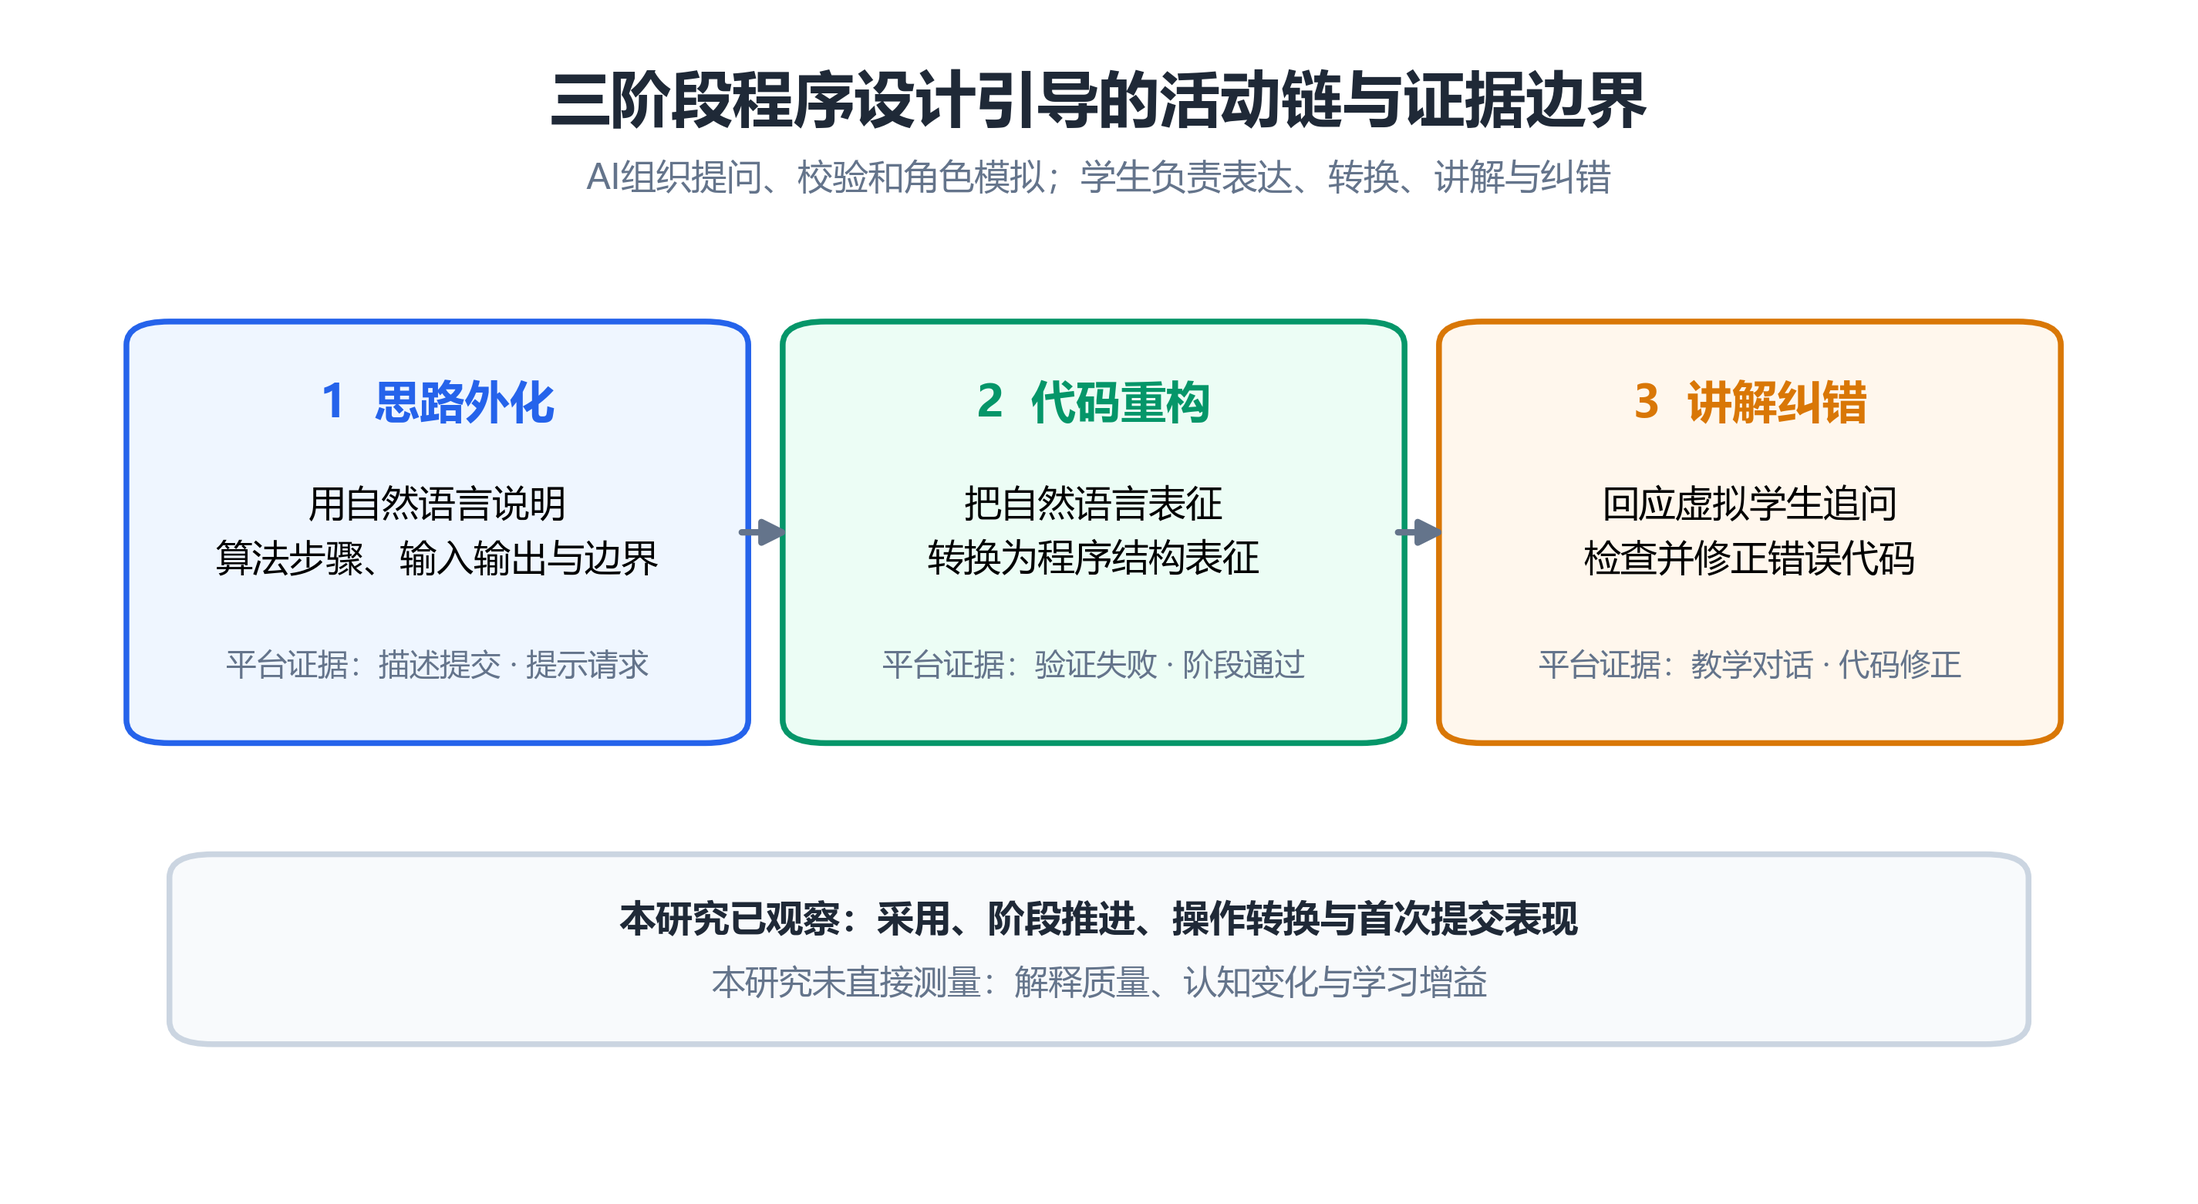
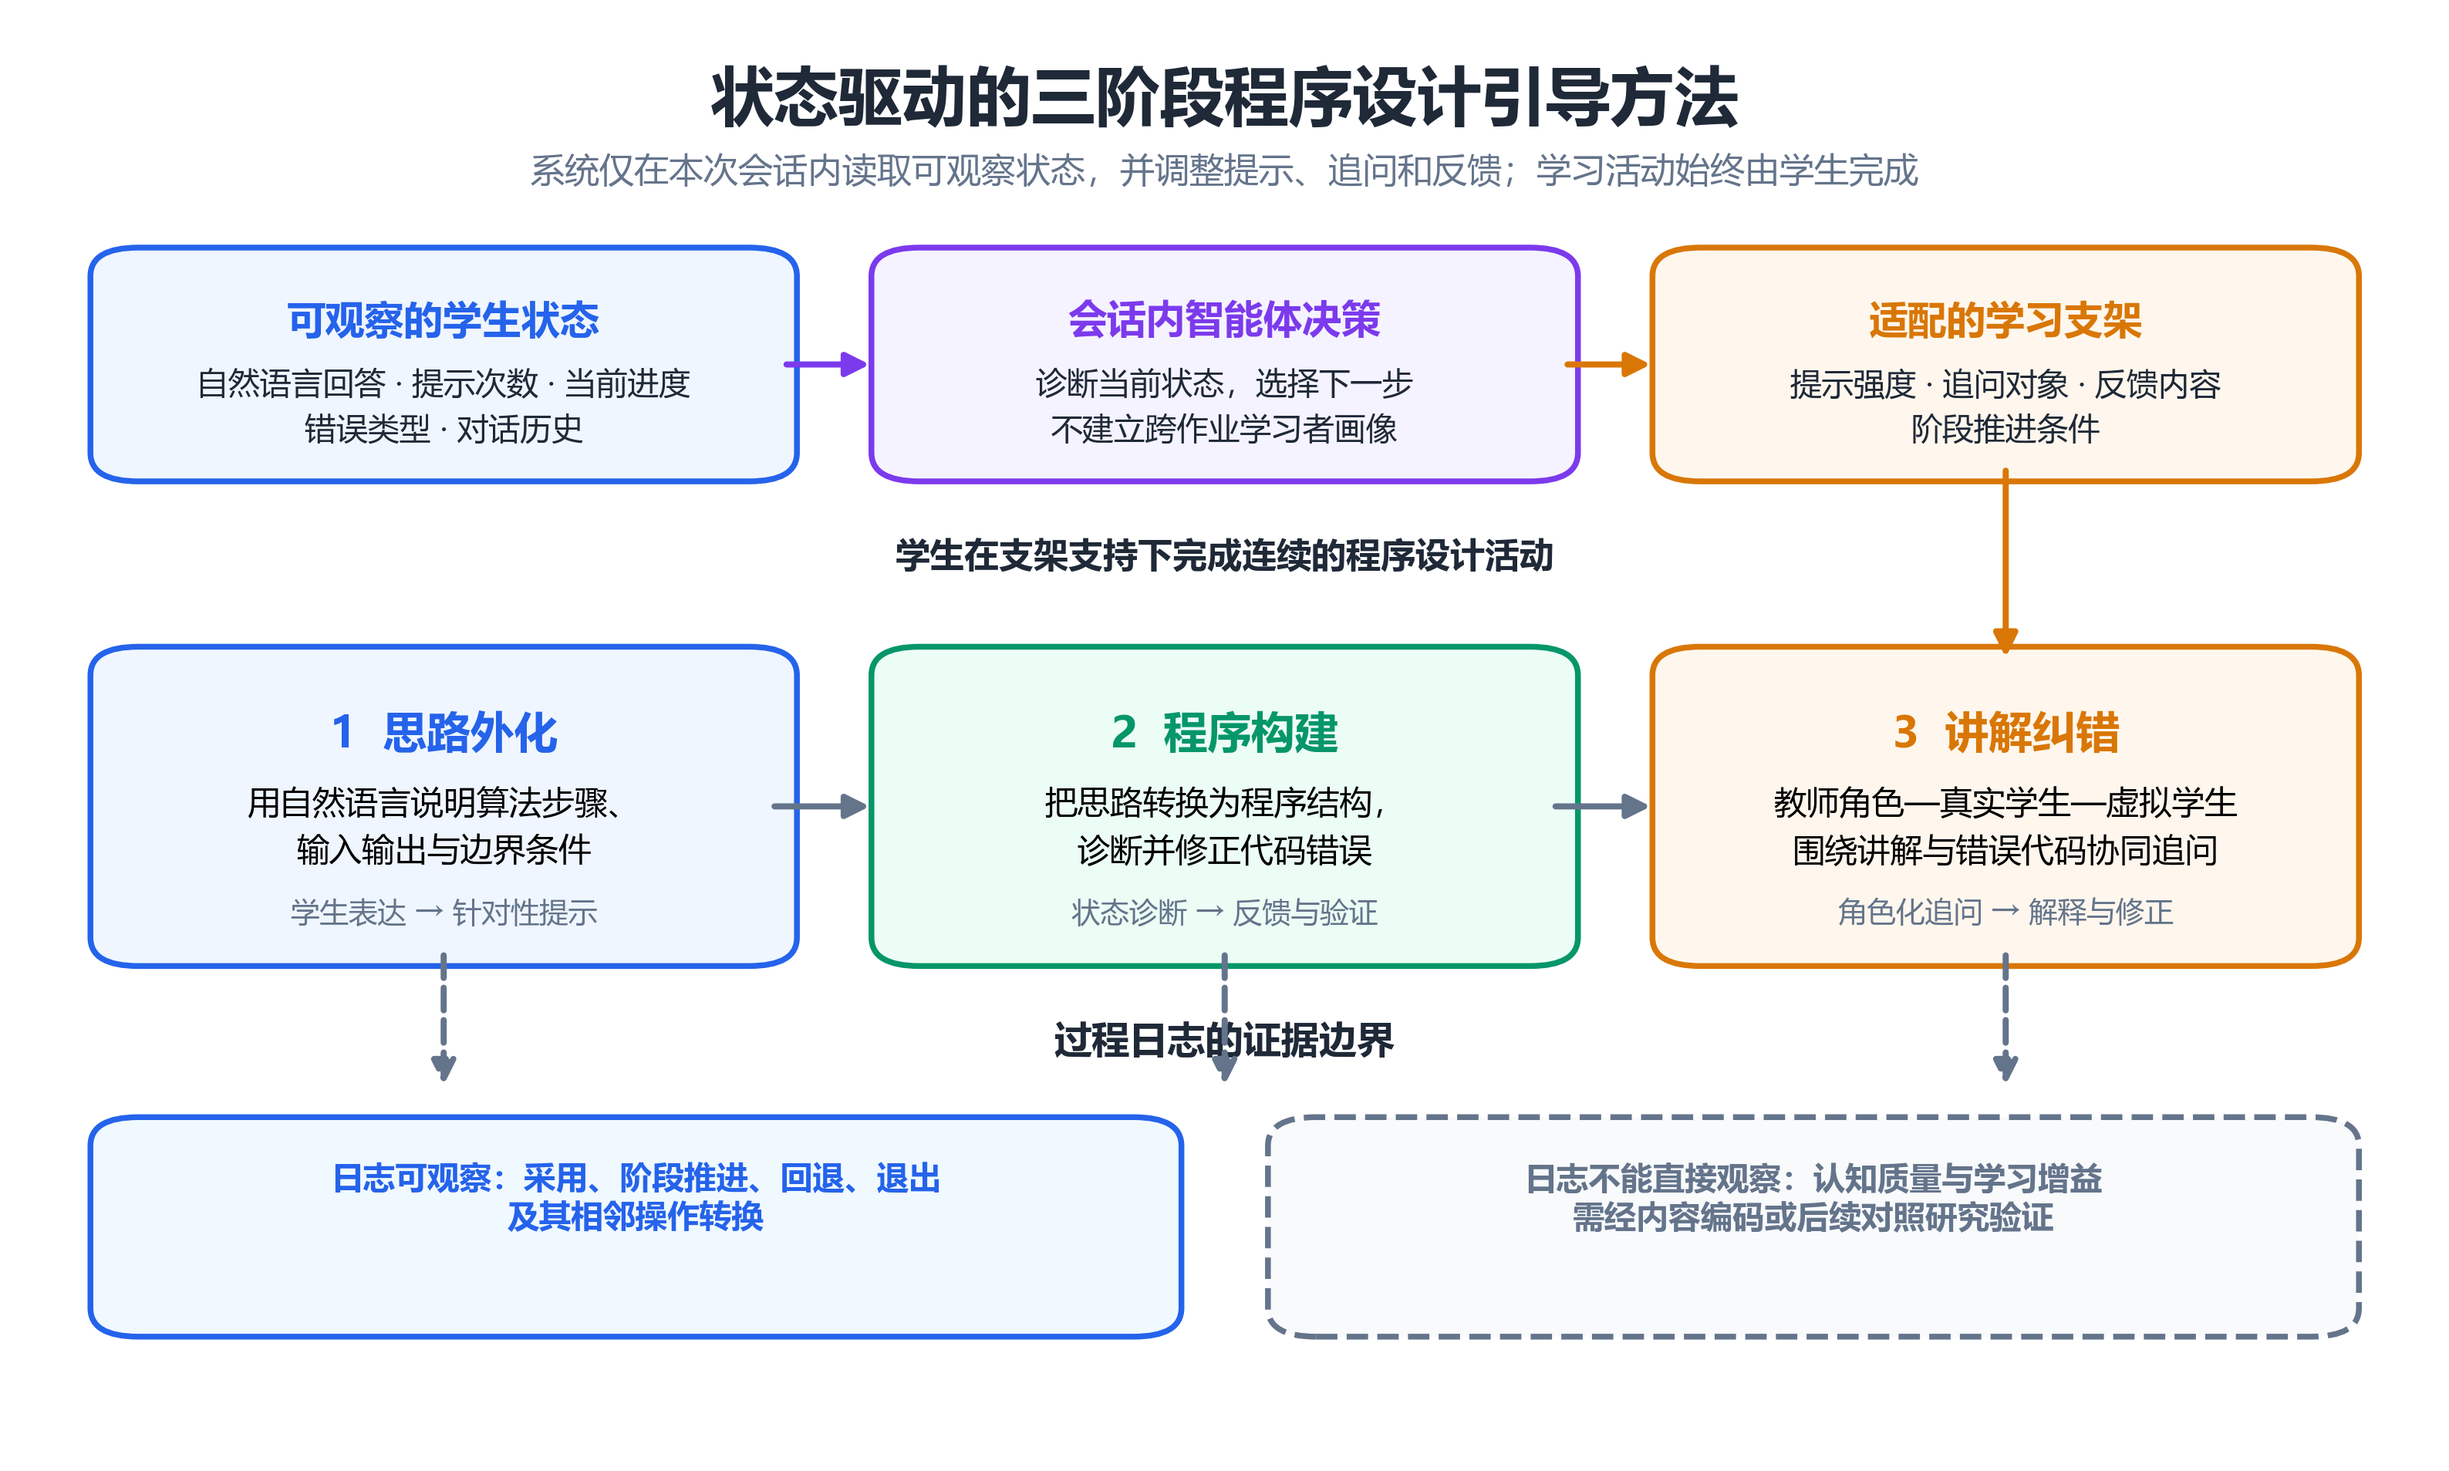
docs: clarify adaptive guided-learning framework

Changed region(s): [[0.0312, 0.0307, 0.9681, 0.9225]]

diff --git a/scripts/plot_guided_learning_paper.py b/scripts/plot_guided_learning_paper.py
@@ -63,12 +63,12 @@ def _save(fig: plt.Figure, path: Path) -> Path:
 
 
 def _plot_activity_chain_evidence(output_dir: Path) -> Path:
-    fig, ax = plt.subplots(figsize=(12, 6.5))
+    fig, ax = plt.subplots(figsize=(13.4, 8.0))
     ax.set_xlim(0, 1)
     ax.set_ylim(0, 1)
     ax.axis("off")
 
-    def box(x, y, width, height, face, edge):
+    def box(x, y, width, height, face, edge, *, linestyle="solid"):
         patch = FancyBboxPatch(
             (x, y),
             width,
@@ -77,119 +77,201 @@ def _plot_activity_chain_evidence(output_dir: Path) -> Path:
             linewidth=1.8,
             edgecolor=edge,
             facecolor=face,
+            linestyle=linestyle,
             transform=ax.transAxes,
         )
         ax.add_patch(patch)
 
+    def arrow(start, end, *, color=COLORS["gray"], linestyle="solid"):
+        ax.annotate(
+            "",
+            xy=end,
+            xytext=start,
+            xycoords=ax.transAxes,
+            arrowprops={
+                "arrowstyle": "-|>",
+                "lw": 1.9,
+                "color": color,
+                "linestyle": linestyle,
+                "mutation_scale": 15,
+            },
+        )
+
     ax.text(
         0.5,
-        0.93,
-        "三阶段程序设计引导的活动链与证据边界",
+        0.945,
+        "状态驱动的三阶段程序设计引导方法",
         ha="center",
         va="center",
-        fontsize=19,
+        fontsize=20,
         fontweight="bold",
         color=COLORS["dark"],
     )
     ax.text(
         0.5,
-        0.865,
-        "AI组织提问、校验和角色模拟；学生负责表达、转换、讲解与纠错",
+        0.895,
+        "系统仅在本次会话内读取可观察状态，并调整提示、追问和反馈；学习活动始终由学生完成",
         ha="center",
         va="center",
-        fontsize=11,
+        fontsize=10.8,
         color=COLORS["gray"],
     )
 
-    stages = [
+    top_boxes = [
         (
-            0.06,
-            "1  思路外化",
-            "用自然语言说明\n算法步骤、输入输出与边界",
-            "描述提交 · 提示请求",
+            0.04,
+            "可观察的学生状态",
+            "自然语言回答 · 提示次数 · 当前进度\n错误类型 · 对话历史",
             "#EFF6FF",
             COLORS["blue"],
         ),
         (
             0.365,
-            "2  代码重构",
-            "把自然语言表征\n转换为程序结构表征",
-            "验证失败 · 阶段通过",
-            "#ECFDF5",
-            COLORS["green"],
+            "会话内智能体决策",
+            "诊断当前状态，选择下一步\n不建立跨作业学习者画像",
+            "#F5F3FF",
+            COLORS["purple"],
         ),
         (
-            0.67,
-            "3  讲解纠错",
-            "回应虚拟学生追问\n检查并修正错误代码",
-            "教学对话 · 代码修正",
+            0.69,
+            "适配的学习支架",
+            "提示强度 · 追问对象 · 反馈内容\n阶段推进条件",
             "#FFF7ED",
             COLORS["orange"],
         ),
     ]
-    for x, title, activity, evidence, face, edge in stages:
-        box(x, 0.39, 0.265, 0.34, face, edge)
+    for x, title, detail, face, edge in top_boxes:
+        box(x, 0.69, 0.27, 0.14, face, edge)
         ax.text(
-            x + 0.1325,
-            0.67,
+            x + 0.135,
+            0.79,
             title,
             ha="center",
             va="center",
-            fontsize=14,
+            fontsize=12.2,
             fontweight="bold",
             color=edge,
         )
         ax.text(
-            x + 0.1325,
-            0.56,
-            activity,
+            x + 0.135,
+            0.73,
+            detail,
             ha="center",
             va="center",
-            fontsize=11.5,
-            linespacing=1.5,
-        )
-        ax.text(
-            x + 0.1325,
-            0.445,
-            f"平台证据：{evidence}",
-            ha="center",
-            va="center",
-            fontsize=9.5,
-            color=COLORS["gray"],
+            fontsize=9.8,
+            linespacing=1.45,
+            color=COLORS["dark"],
         )
 
-    for start, end in ((0.325, 0.365), (0.63, 0.67)):
-        ax.annotate(
-            "",
-            xy=(end - 0.006, 0.56),
-            xytext=(start + 0.006, 0.56),
-            xycoords=ax.transAxes,
-            arrowprops={
-                "arrowstyle": "-|>",
-                "lw": 2,
-                "color": COLORS["gray"],
-                "mutation_scale": 16,
-            },
-        )
+    arrow((0.315, 0.76), (0.355, 0.76), color=COLORS["purple"])
+    arrow((0.64, 0.76), (0.68, 0.76), color=COLORS["orange"])
 
-    box(0.08, 0.13, 0.84, 0.14, COLORS["light"], "#CBD5E1")
     ax.text(
         0.5,
-        0.225,
-        "本研究已观察：采用、阶段推进、操作转换与首次提交表现",
+        0.625,
+        "学生在支架支持下完成连续的程序设计活动",
         ha="center",
         va="center",
-        fontsize=11.5,
+        fontsize=10.8,
         fontweight="bold",
         color=COLORS["dark"],
     )
+
+    stages = [
+        (
+            0.04,
+            "1  思路外化",
+            "用自然语言说明算法步骤、\n输入输出与边界条件",
+            "学生表达 → 针对性提示",
+            "#EFF6FF",
+            COLORS["blue"],
+        ),
+        (
+            0.365,
+            "2  程序构建",
+            "把思路转换为程序结构，\n诊断并修正代码错误",
+            "状态诊断 → 反馈与验证",
+            "#ECFDF5",
+            COLORS["green"],
+        ),
+        (
+            0.69,
+            "3  讲解纠错",
+            "教师角色—真实学生—虚拟学生\n围绕讲解与错误代码协同追问",
+            "角色化追问 → 解释与修正",
+            "#FFF7ED",
+            COLORS["orange"],
+        ),
+    ]
+    for x, title, activity, scaffold, face, edge in stages:
+        box(x, 0.35, 0.27, 0.20, face, edge)
+        ax.text(
+            x + 0.135,
+            0.50,
+            title,
+            ha="center",
+            va="center",
+            fontsize=13.6,
+            fontweight="bold",
+            color=edge,
+        )
+        ax.text(
+            x + 0.135,
+            0.435,
+            activity,
+            ha="center",
+            va="center",
+            fontsize=10.2,
+            linespacing=1.45,
+        )
+        ax.text(
+            x + 0.135,
+            0.375,
+            scaffold,
+            ha="center",
+            va="center",
+            fontsize=9.0,
+            color=COLORS["gray"],
+        )
+
+    arrow((0.825, 0.69), (0.825, 0.55), color=COLORS["orange"])
+    arrow((0.31, 0.45), (0.355, 0.45), color=COLORS["gray"])
+    arrow((0.635, 0.45), (0.68, 0.45), color=COLORS["gray"])
+
     ax.text(
         0.5,
-        0.17,
-        "本研究未直接测量：解释质量、认知变化与学习增益",
+        0.285,
+        "过程日志的证据边界",
         ha="center",
         va="center",
-        fontsize=10.5,
+        fontsize=11.8,
+        fontweight="bold",
+        color=COLORS["dark"],
+    )
+    arrow((0.175, 0.35), (0.175, 0.25), linestyle="dashed")
+    arrow((0.50, 0.35), (0.50, 0.25), linestyle="dashed")
+    arrow((0.825, 0.35), (0.825, 0.25), linestyle="dashed")
+
+    box(0.04, 0.09, 0.43, 0.13, "#F0F9FF", COLORS["blue"])
+    ax.text(
+        0.255,
+        0.175,
+        "日志可观察：采用、阶段推进、回退、退出\n及其相邻操作转换",
+        ha="center",
+        va="center",
+        fontsize=10.0,
+        fontweight="bold",
+        color=COLORS["blue"],
+    )
+    box(0.53, 0.09, 0.43, 0.13, COLORS["light"], COLORS["gray"], linestyle="dashed")
+    ax.text(
+        0.745,
+        0.175,
+        "日志不能直接观察：认知质量与学习增益\n需经内容编码或后续对照研究验证",
+        ha="center",
+        va="center",
+        fontsize=10.0,
+        fontweight="bold",
         color=COLORS["gray"],
     )
     return _save(fig, output_dir / "activity_chain_evidence.png")

diff --git a/tests/test_guided_learning_paper_plots.py b/tests/test_guided_learning_paper_plots.py
@@ -141,3 +141,17 @@ def test_create_figures_writes_revised_nonempty_pngs(tmp_path):
     for path in paths:
         with Image.open(path) as image:
             assert min(image.size) >= 1400
+
+
+def test_activity_chain_figure_is_landscape_and_readable(tmp_path):
+    results = tmp_path / "results"
+    figures = tmp_path / "figures"
+    results.mkdir()
+    _write_minimal_revised_results(results)
+
+    create_figures(results, figures)
+
+    with Image.open(figures / "activity_chain_evidence.png") as image:
+        assert image.width > image.height
+        assert image.width >= 3000
+        assert image.height >= 1700

diff --git a/.superpowers/sdd/task-2-report.md b/.superpowers/sdd/task-2-report.md
@@ -1,0 +1,37 @@
+# Task 2 报告：活动链总览图改为“状态—决策—支架”结构
+
+## 完成内容
+
+图 1 已改为横向的“状态—决策—支架”结构，标题为“状态驱动的三阶段程序设计引导方法”。视觉中心放在学生完成的三阶段学习方法，而不是 CodeSense 平台。
+
+上层从左到右展示：可观察的学生状态、会话内智能体决策、适配的学习支架。状态输入包括自然语言回答、提示次数、当前进度、错误类型和对话历史；决策层说明智能体仅在本次会话内诊断状态并选择下一步，不建立跨作业学习者画像；支架层列出提示强度、追问对象、反馈内容和阶段推进条件。
+
+中层保留并重写三阶段活动：思路外化、程序构建、讲解纠错。第三阶段明确标注“教师角色—真实学生—虚拟学生”，描述为围绕学生讲解和错误代码的协同追问，未将其绘制成两个彼此自治的系统。
+
+下层将过程日志的证据边界拆为两个并列区域。实线框列出日志可观察的采用、阶段推进、回退、退出及相邻操作转换；虚线框说明日志不能直接观察认知质量和学习增益，后两者需要内容编码或后续对照研究验证。
+
+## TDD 记录
+
+先在 `tests/test_guided_learning_paper_plots.py` 新增 `test_activity_chain_figure_is_landscape_and_readable`，再运行该单测。旧图测试失败，实际尺寸为 2850×1561，宽度未达到 3000 像素的要求。随后才修改绘图函数。
+
+实现后，该测试通过。正式生成的 `activity_chain_evidence.png` 尺寸为 3175×1907，满足横向、宽度不低于 3000 像素、高度不低于 1700 像素的要求。
+
+## 视觉检查与修正
+
+使用原始分辨率查看生成图。第一次检查发现从“适配的学习支架”指向三个阶段的两条斜箭头穿过了中心说明文字。已删除这两条会造成遮挡的箭头，保留支架到第三阶段的垂直连线，并用各阶段内的支架说明表达其贯穿作用。第二次原始分辨率检查确认标题、说明、阶段文字、箭头和虚线边界均未出现裁切或重叠。
+
+图中以文字、实线和虚线共同区分信息层级，因此在黑白打印时仍可区分已观察的日志证据与未直接测得的认知或学习增益。
+
+## 验证
+
+- 定向红灯：`py -m pytest tests/test_guided_learning_paper_plots.py::test_activity_chain_figure_is_landscape_and_readable -q`，旧图失败，原因符合预期。
+- 定向绿灯：同一命令在实现后通过。
+- 生成：`py scripts/plot_guided_learning_paper.py` 成功更新全部论文图，活动链图非空。
+- 绘图测试：`py -m pytest tests/test_guided_learning_paper_plots.py -q`，2 通过。
+- 相关论文测试：`py -m pytest tests/test_guided_learning_paper_plots.py tests/test_guided_learning_paper_content.py tests/test_guided_learning_paper_docx.py tests/test_guided_learning_research_analysis.py -q`，25 通过。
+
+## 自审与范围
+
+已检查变更内容、PNG 尺寸和原始分辨率渲染。图中没有将 CodeSense 放在视觉中心，也没有把日志行为写成认知质量或学习增益。未修改 Task 1 的审计或矩阵文件，未触碰冻结结果；`.tmp/` 与 `static/uploads/` 保持未跟踪状态且不纳入提交。
+
+本任务提交仅包含绘图脚本、绘图测试、生成的活动链 PNG 和本报告。
